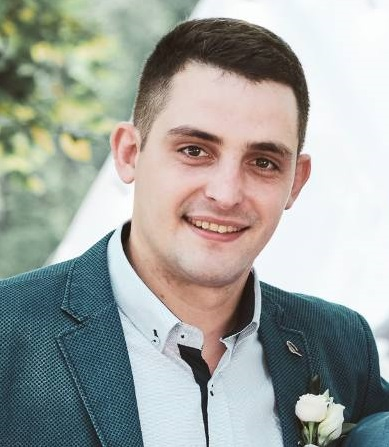
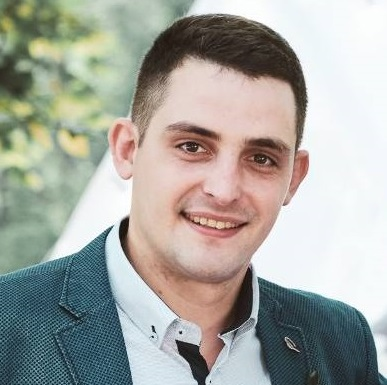
change foto and description

diff --git a/index.html b/index.html
@@ -67,11 +67,11 @@
     
     <div class="about-me">
         <div>
-            <h2>Front-End Developer</h2>
+            <h2>Full-Stack Developer</h2>
             <h1>Igor Gladkiy</h1>
 
-            <p>When I was child, instead of toys, I asked to give me a calculator, an electronic notebook or something with
-            buttons. Now I want to become a cool Full-Stack developer, because I know for sure - it's in my soul. </p>
+            <p>A creative, intelligent, purposeful developer who will never burn out. It never gets boring with me. With sufficient
+            motivation, I will show cool results! </p>
         </div>
         <br/>
         <br/>
@@ -86,7 +86,7 @@
                     <span>.............................</span>
                     <span>[ HTML , CSS, JS ]</span>
                 </li>
-                <li><a href="https://chetkiy777.github.io/goit-markup-hw-08/"> GoIT_project </a>
+                <li><a href="https://chetkiy777.github.io/ice-cream-team-project"/> ice-cream-team-project </a>
                     <span>.............................</span>
                     <span>[ HTML , SCSS, JS ]</span>
                 </li>
